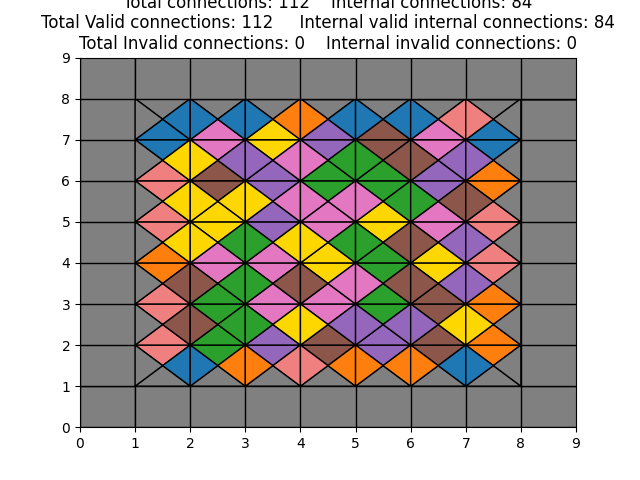
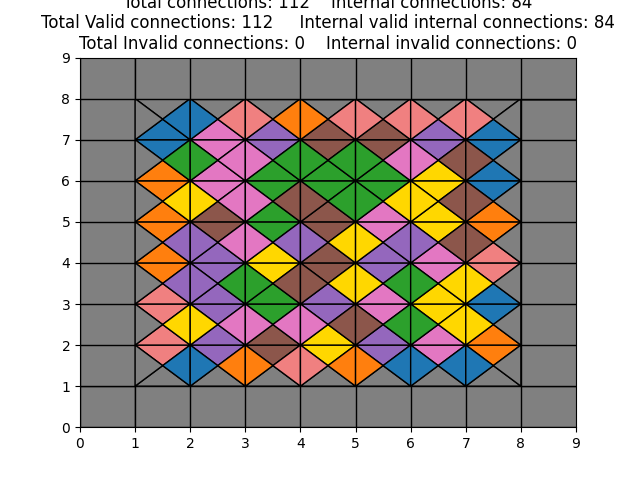
B in less than a minute

Changed region(s): [[0.2188, 0.1875, 0.8125, 0.8125]]

diff --git a/code/comparison_solvers.py b/code/comparison_solvers.py
@@ -1,4 +1,4 @@
-import eternity_puzzle
+from eternity_puzzle import EternityPuzzle
 import time 
 import random 
 import argparse
@@ -14,32 +14,40 @@ def parse_arguments():
     return parser.parse_args()
 
 if __name__ == '__main__':
-    args = parse_arguments()
+    files = ['./instances/eternity_A.txt', './instances/eternity_B.txt', './instances/eternity_C.txt', './instances/eternity_D.txt', './instances/eternity_E.txt', './instances/eternity_complet.txt']
 
-    num_iter = 50
-    eternity_puzzle = eternity_puzzle.EternityPuzzle(args.infile)
-
-    seeds = [random.random() for _ in range(num_iter)]
-
-    conflicts = []
-    for seed in seeds:
+    for f in files:
         start_time = time.time()
-        solution_h, conflict_h = solve_heuristic(eternity_puzzle, seed)
-        h_time = time.time() - start_time
+        sol, conflicts = solve_local_search(EternityPuzzle(f))
+        print(f)
+        print(f'Executed time: {time.time() - start_time}')
+        print(f'Number Conflicts: {conflicts}')
 
-        # start_time = time.time()
-        # solution_ls, conflict_ls = solve_local_search(eternity_puzzle, seed)
-        # ls_time = time.time() - start_time
+    # seeds = [random.random() for _ in range(num_iter)]
 
-        # start_time = time.time()
-        # solution_a, conflict_a = solve_advanced(eternity_puzzle, seed)
-        # a_time = time.time() - start_time
+    # conflicts = []
+    # min_conflicts = float('inf')
+    # for seed in seeds:
+    #     start_time = time.time()
+    #     solution_h, conflict_h = solve_local_search(eternity_puzzle, seed)
+    #     h_time = time.time() - start_time
+    #     if conflict_h < min_conflicts:
+    #         min_conflicts = conflict_h
 
-        print(f'Seed: {seed}')
-        print(f'Heuristic: {conflict_h} in {h_time}')
-        conflicts.append(conflict_h)
-        # print(f'Local Search: {conflict_ls} in {ls_time}')
-        # print(f'Advanced: {conflict_a} in {a_time}')
+    #     # start_time = time.time()
+    #     # solution_ls, conflict_ls = solve_local_search(eternity_puzzle, seed)
+    #     # ls_time = time.time() - start_time
 
-    print(f'Mean conflicts: {np.mean(conflicts)}')
-    print(f'Variance conflicts: {np.var(conflicts)}')
+    #     # start_time = time.time()
+    #     # solution_a, conflict_a = solve_advanced(eternity_puzzle, seed)
+    #     # a_time = time.time() - start_time
+
+    #     print(f'Seed: {seed}')
+    #     print(f'Heuristic: {conflict_h} in {h_time}')
+    #     conflicts.append(conflict_h)
+    #     # print(f'Local Search: {conflict_ls} in {ls_time}')
+    #     # print(f'Advanced: {conflict_a} in {a_time}')
+
+    # print(f'Mean conflicts: {np.mean(conflicts)}')
+    # print(f'Variance conflicts: {np.var(conflicts)}')
+    # print(f'Best value: {min_conflicts}')

diff --git a/code/solver_advanced.py b/code/solver_advanced.py
@@ -20,7 +20,7 @@ EAST = 3
 #########################
 # Configuration Globale #
 #########################
-MAX_TABU_SIZE = 360
+MAX_TABU_SIZE = 250
 MAX_ITER_1 = 400
 MAX_TIME_1 = 60
 BETA_1 = 0.5
@@ -30,7 +30,7 @@ RATIO_DESTRUCTION = 0.1
 NB_BEST_RESTART_BEF_RANDOM = 1
 NB_RANDOM_RESTART_BEF_BEST = 4
 MAX_ITER = 10000
-MAX_ITER_TABU = 400
+MAX_ITER_TABU = 350
 ITER_CHANGE_RATIO = 10
 LOG = True 
 ##############
@@ -64,6 +64,12 @@ def solve_advanced(eternity_puzzle):
     iter_to_change_ratio = 0
     on_best = False 
     while best_score_overall != 0 and (time.time() - start_time) <= MAX_TIME:
+        if iter_to_change_ratio < ITER_CHANGE_RATIO:
+            NB_BEST_RESTART_BEF_RANDOM = 4
+            NB_RANDOM_RESTART_BEF_BEST = 1 
+        else:
+            NB_BEST_RESTART_BEF_RANDOM = 1
+            NB_RANDOM_RESTART_BEF_BEST = 4 
         if (nb_iter % (NB_BEST_RESTART_BEF_RANDOM + NB_RANDOM_RESTART_BEF_BEST)) < NB_BEST_RESTART_BEF_RANDOM:
             # On recommence en partant de la meilleure solution trouvee jusqu'a present
             on_best = True
@@ -104,8 +110,8 @@ def solve_advanced(eternity_puzzle):
         best_sol = copy.deepcopy(solver.solution)
         best_score = solver._get_conflicts()
         # Si tabu_done vaut True, la recherche tabou ne sera pas effectuee en fin de LNS. Mettre a False pour tester mais peu concluant 
-        # tabu_done = False 
-        tabu_done = True
+        tabu_done = False 
+        # tabu_done = True
         while (not tabu_done) or (best_score != 0 and (time.time() - start_time) <= MAX_TIME and iter_without_accept < MAX_ITER and iter_without_improvement < MAX_ITER) :
             if on_best:
                 destructed_sol, id_destructed_pieces, destructed_pieces = solver._destruct_ratio_conflicts_and_ratio()
@@ -225,6 +231,7 @@ class Solver:
         self.tabu = []
 
         self.ratio_destruction = RATIO_DESTRUCTION
+        self.ratio_no_conflicts = 1.5
 
     def _get_conflicts(self):
         return self.puzzle.get_total_n_conflict(self.solution)
@@ -816,7 +823,7 @@ class Solver:
         nb_destructed_pieces = min(int(self.size**2 * self.ratio_destruction), len(pieces_with_conflicts))
         id_destructed_pieces = [i for i in pieces_with_conflicts[:nb_destructed_pieces]]
         random.shuffle(pieces_without_conflicts)
-        id_destructed_pieces = id_destructed_pieces + [i for i in pieces_without_conflicts[:int(self.size**2 * self.ratio_destruction/2)]]
+        id_destructed_pieces = id_destructed_pieces + [i for i in pieces_without_conflicts[:int(self.size**2 * self.ratio_destruction * self.ratio_no_conflicts)]]
         for i in id_destructed_pieces:
             destructed_pieces.append(self.solution[i])
             new_sol[i] = 0

diff --git a/code/solver_local_search.py b/code/solver_local_search.py
@@ -23,7 +23,7 @@ NUMBER_RESTARTS = 50
 TABU_LIST = []
 MAX_TABU_SIZE = 400
 MAX_ITER_BEFORE_SWAP_BORDER = 10
-MAX_TIME = 600
+MAX_TIME = 900
 ##############
 ### SOLVER ###
 ##############
@@ -38,7 +38,7 @@ def solve_local_search(eternity_puzzle, r=random.random()):
     # Configuration #
     #################
     r = 0.18062110343039572
-    print(f'Seed: {r}')
+    # print(f'Seed: {r}')
     random.seed(r)      
     ##################
     # Initialisation de la solution

diff --git a/code/solver_heuristic.py b/code/solver_heuristic.py
@@ -24,7 +24,7 @@ def solve_heuristic(eternity_puzzle, r=random.random()):
     ##################################
     r = 0.18062110343039572
     random.seed(r)
-    print(f'Seed: {r}')
+    # print(f'Seed: {r}')
     NUMBER_GEN = 100
     ##################################
 
